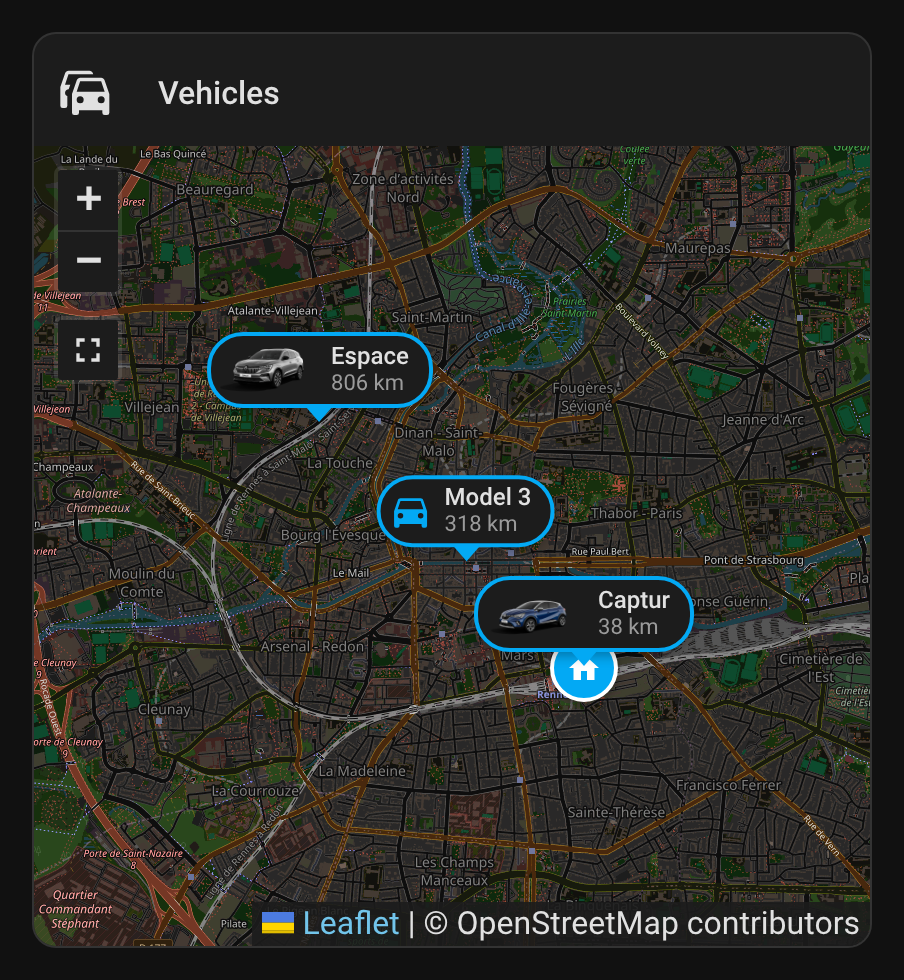
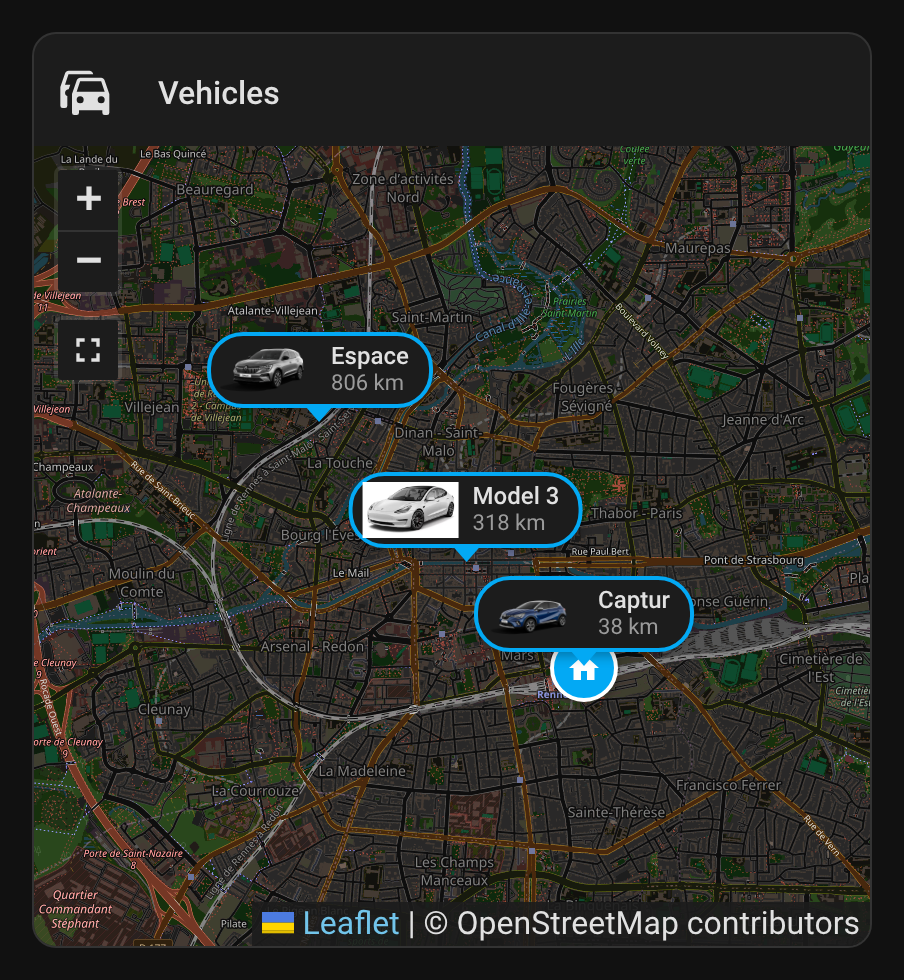
docs: the Tesla's picture on the map screenshots (#67)
The map screenshots now show the Tesla Model 3 with its picture, like
the Espace and the Captur.

Teslemetry gives no picture of the car. In the mock, the picture is the
`entity_picture` of the Model 3's device tracker, which a user can set
with customize. The README notes this under `show_picture`.

This changes only the screenshots and the README, so there is no
release.

---
_Generated by [Claude
Code](https://claude.ai/code/session_01F4sAn1HyXcup7Szzj4Y4Yz)_

Changed region(s): [[0.3717, 0.4592, 0.6504, 0.5816]]

diff --git a/README.md b/README.md
@@ -305,7 +305,7 @@ height: 400
 | `show_icon` | ❌ | `true` | Brand logo in the header (when all the vehicles are of the same brand; a car icon otherwise) |
 | `show_home` | ❌ | `true` | Home marker |
 | `show_name` | ❌ | `true` | Vehicle name on the markers |
-| `show_picture` | ❌ | `true` | Vehicle picture on the markers and in the popup |
+| `show_picture` | ❌ | `true` | Vehicle picture on the markers and in the popup: the one the integration gives, else the `entity_picture` of its device tracker (which you can set with [customize](https://www.home-assistant.io/docs/configuration/customizing-devices/)) |
 | `show_fullscreen` | ❌ | `true` | Full screen button under the zoom buttons (on iPhone the card fills the screen) |
 | `language` | ❌ | Auto | Force language: `en`, `fr`, `de`, `es`, `sr`, `sr-Latn`, `it`, `nl`, `pt`, `pl`, `ro`, `da`, `sv`, `bg`, `ru`, `uk`, `hu`, `sk`, `cs`, `sl`, `lv` or `el` (auto-detects from HA settings) |
 
